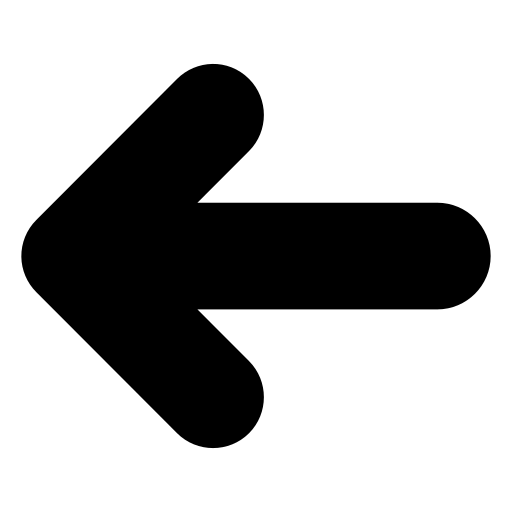
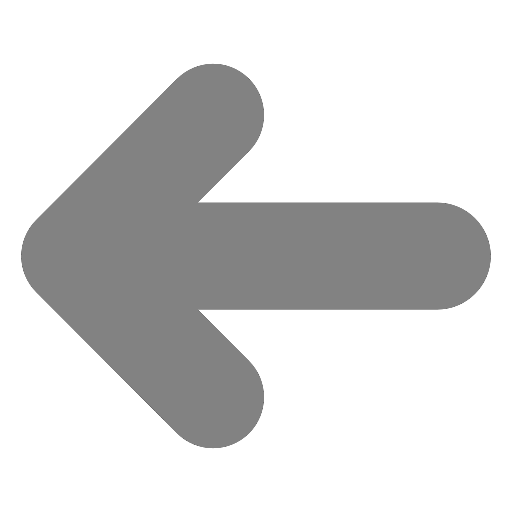
css editing for tabel

diff --git a/client/src/Components/Admin/Pages/Salary/salary.module.css b/client/src/Components/Admin/Pages/Salary/salary.module.css
@@ -1,5 +1,6 @@
 .content_box{
     width: 100%;
+    max-height:85vh;
 }
 .hide_block{
     display:none;
@@ -26,10 +27,9 @@
     align-items: center;
 }
 .content{
-    margin-top: 1rem;
     width: 100%;
-    height: 77vh;
-    overflow-y: scroll;
+    max-height: 85vh;
+    overflow: hidden;
 }
 .content::-webkit-scrollbar {
     width: 7px;
@@ -50,8 +50,11 @@
     flex-flow:column nowrap;
     justify-content:space-between;
 }
+.table_title_box{
+    height:2.2rem;
+}
 .table_title_row {
-    width:100%;
+    width:99%;
     display: flex;
     flex-flow: row nowrap;
     height: 68px;
@@ -158,7 +161,7 @@
 .full_day {
     width: 70%;
     text-align: center;
-    background-color: forestgreen;
+    background-color: #6B8E23;
     border: 1px solid gray;
     border-radius: 20%;
     color: beige;
@@ -174,10 +177,26 @@
     height:36px;
     
 }
-.full_row:hover{
-    background-color: #888888;
-}
+    .full_row:hover {
+        background-color: #D3D3D3;
+    }
 .table_content {
     width: 100%;
     margin-top: 1rem;
+    height:65vh;
+    overflow:hidden;
+    overflow-y:scroll;
 }
+.table_content::-webkit-scrollbar {
+    width: 7px;
+}
+.table_content::-webkit-scrollbar-track {
+        background: #f1f1f1;
+    }
+.table_content::-webkit-scrollbar-thumb {
+        background: #888;
+        border-radius: 3px;
+    }
+.table_content::-webkit-scrollbar-thumb:hover {
+            background: #555;
+        }

diff --git a/client/src/Components/Admin/Pages/Salary/tableTimeSheet.jsx b/client/src/Components/Admin/Pages/Salary/tableTimeSheet.jsx
@@ -133,7 +133,7 @@ const TableTimeSheet = (props) => {
                 </div>
                 <div className={c.table_timesheet}>
                     <div className={c.table_title_month_row}>
-                        <div onClick={() => props.prewMonthData()} className={c.arrows } ><img src={arrowLeft} alt='flaticon.com' /></div>
+                        <div onClick={() => props.prewMonthData()} className={c.arrows }><img src={arrowLeft} alt='flaticon.com' /></div>
                         <div>{monthTitle}</div>
                         <div onClick={() => props.nextMonthData()} className={c.arrows}><img src={arrowRight} alt='flaticon.com' /></div>
                             </div>

diff --git a/client/src/App.css b/client/src/App.css
@@ -26,7 +26,7 @@
   margin: 5px;
   position: relative;
   /*background-image: url(./Static/img/background/klipartz.png);*/
-  min-height: 86vh;
+  min-height: 89vh;
   overflow: hidden;
 }
 
